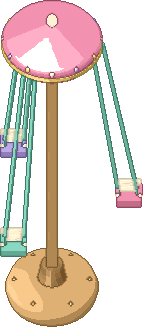
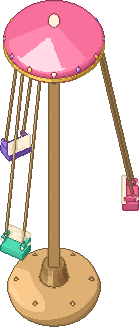
空中ブランコの吊りひもを細くして遊具の彩度を上げる

diff --git a/tools/art/handoff3d/rides.py b/tools/art/handoff3d/rides.py
@@ -8,7 +8,9 @@
 両端を止め、内側の座面は底から少し上に取りつける。
 中央に青い釉薬の水盤を固定し、底から0.07上に水面を張る。
 空中ブランコ（2×2）：高さ4.16の柱を半径0.72の基礎に固定。
-半径0.72の回転頭に3組の吊り材をつなぎ、高さ1.57の座板を吊るす。
+回転頭と座席の手すりを2本ずつの丸いひもでつなぐ。座席は外向き。
+上の留め具と下の留め具の間隔はどちらも0.31。張ったひもは直線、
+ちぎれたひもだけは先で曲がる。座板の基準の高さは1.57。
 観覧車（3×2）：左右に開く支柱を基礎から車軸（高さ2.94）へ
 つなぐ。半径1.55の二重の輪を8本のスポークで車軸に固定。
 4個のゴンドラを輪の横軸に吊り、座面を横軸の0.49下に置く。
@@ -18,19 +20,19 @@ from math import cos, sin, sqrt, tau
 
 from common import WOOD
 
-PINK = (243, 146, 176)
+PINK = (247, 112, 155)
 CREAM = (255, 241, 211)
-MINT = (143, 208, 186)
-RIDE_MINT = (137, 216, 192)
+MINT = (79, 219, 180)
 GOLD = (222, 176, 116)
 TRIM = (168, 118, 111)
-BLUE = (166, 222, 237)
-LILAC = (189, 169, 231)
-PEACH = (253, 177, 125)
-SUN = (252, 219, 126)
+BLUE = (139, 209, 239)
+LILAC = (168, 129, 237)
+PEACH = (255, 155, 92)
+SUN = (255, 205, 92)
 SILVER = (189, 205, 216)
 BRASS = (184, 136, 83)
 LEATHER = (159, 102, 95)
+ROPE = (195, 161, 113)
 SEATS = {"merry": 3, "cup": 2, "skyswing": 3, "wheel": 4}
 SPEED = {"merry": 1, "cup": 1.3, "skyswing": 1, "wheel": .35}
 
@@ -58,7 +60,7 @@ def carousel(m, phase, broken, seats):
         b = (panel + 1) * tau / 12
         x, y, z = polar(1.31, a, 2.14 + .10 * cos(a) * broken)
         u, v, w = polar(1.31, b, 2.14 + .10 * cos(b) * broken)
-        color = (PINK, CREAM, PEACH, CREAM, RIDE_MINT, CREAM)[panel % 6]
+        color = (PINK, CREAM, PEACH, CREAM, MINT, CREAM)[panel % 6]
         m.part(color, surface="cloth")
         m.sc.tri((roof_x, 0, 2.65), (x, y, z), (u, v, w), m.color(color))
         m.sc.quad((x, y, z), (u, v, w), (u, v, w-.10),
@@ -67,11 +69,11 @@ def carousel(m, phase, broken, seats):
         m.rod((roof_x, 0, 2.65), (x, y, z+.015), .014, CREAM)
         if not broken:
             cx, cy = (x+u)/2, (y+v)/2
-            m.part((RIDE_MINT, SUN, LILAC)[panel % 3], surface="cloth")
+            m.part((MINT, SUN, LILAC)[panel % 3], surface="cloth")
             m.sc.tri((x*.34+cx*.66, y*.34+cy*.66, z-.10),
                      (u*.34+cx*.66, v*.34+cy*.66, w-.10),
                      (cx, cy, (z+w)/2-.235),
-                     m.color((RIDE_MINT, SUN, LILAC)[panel % 3]))
+                     m.color((MINT, SUN, LILAC)[panel % 3]))
     m.ball((roof_x, 0, 2.69), .09, SUN, surface="polished")
     for index in range(3):
         angle = phase + index * tau / 3
@@ -84,7 +86,7 @@ def carousel(m, phase, broken, seats):
         if broken and index == 1:
             m.rod((x, y, .31), horse(.16, -.33), .029, TRIM)
             continue
-        trim = (PINK, RIDE_MINT, LILAC)[index]
+        trim = (PINK, MINT, LILAC)[index]
         m.rod((x, y, .27), (x, y, 2.15), .024, GOLD, surface="polished")
         m.rod(horse(-.17, 0), horse(.15, 0), .115, CREAM)
         m.rod(horse(.12, .02), horse(.18, .25), .065, CREAM)
@@ -104,7 +106,7 @@ def carousel(m, phase, broken, seats):
 
 def cups(m, phase, broken, seats):
     m.lathe([(0, 0), (1.32, 0), (1.38, .11), (1.38, .23),
-             (1.30, .30), (0, .30)], RIDE_MINT)
+             (1.30, .30), (0, .30)], MINT)
     m.lathe([(0,.30),(.11,.30),(.105,.49),(.169,.54),(.244,.64),
              (.253,.68),(.253,.703),(.213,.703),(.184,.602),
              (0,.601)], BLUE, surface="enamel")
@@ -136,7 +138,7 @@ def cups(m, phase, broken, seats):
             a = angle+j*tau/8
             dx, dy, dz = polar(.379, a, z+.30)
             m.ball((x+dx,y+dy,dz), .035, SUN, surface="enamel")
-        m.box((x-.19, y-.10, z+.16), (x+.19, y+.05, z+.22), RIDE_MINT)
+        m.box((x-.19, y-.10, z+.16), (x+.19, y+.05, z+.22), MINT)
         m.rod((x,y,z+.15), (x,y,z+.31), .033, BRASS, surface="polished")
         wheel = [(x+.095*cos(i*tau/20), y+.095*sin(i*tau/20), z+.31)
                  for i in range(21)]
@@ -174,22 +176,41 @@ def swing(m, phase, broken, seats):
     for index in range(3):
         angle = phase + index * tau / 3
         x, y, z = polar(1.20 if not broken else .81, angle, 1.57)
-        hx, hy, hz = polar(.70, angle, 4.10)
+        hx, hy, hz = polar(.67, angle, 4.075)
+        yaw = angle-tau/4
+        c, s = cos(yaw), sin(yaw)
         if broken and index == 1:
-            m.rod((hx+top[0], hy, hz), (hx+.38, hy, 2.40), .020, RIDE_MINT)
+            start = (hx+top[0], hy, hz)
+            points = [
+                (start[0]+cos(angle)*(.11*t*t+.12*t**5),
+                 start[1]+sin(angle)*(.11*t*t+.12*t**5),
+                 start[2]-1.65*t)
+                for t in (0, .33, .65, .86, 1)
+            ]
+            m.tube(points, .013, ROPE, surface="cloth")
             continue
+
         for side in (-1, 1):
-            m.rod((hx+top[0]+side*.09, hy, hz),
-                  (x+side*.15, y, z+.03), .019, RIDE_MINT)
-        color = (PINK, RIDE_MINT, LILAC)[index]
+            attachment = side*.155
+            dx = attachment*c-.035*s
+            dy = attachment*s+.035*c
+            start = (hx+top[0]+dx, hy+dy, hz)
+            end = (x+dx, y+dy, z+.15)
+            m.tube([start, end], .013, ROPE, surface="cloth")
+            m.ball(start, .025, BRASS, surface="polished")
+            m.ball(end, .021, BRASS, surface="polished")
+
+        color = (PINK, MINT, LILAC)[index]
+        chair_start = m.sc.pid
         m.box((x-.19, y-.12, z-.05), (x+.19, y+.12, z+.04), color,
               surface="enamel")
         m.box((x-.19, y-.13, z+.04), (x+.19, y-.08, z+.21), CREAM,
               surface="cloth")
         for side in (-1, 1):
             sx = x+side*.175
-            m.rod((sx,y-.10,z+.13), (sx,y+.095,z+.13), .024, color)
-            m.ball((sx,y+.09,z+.12), .026, CREAM)
+            m.rod((sx, y-.10, z+.13), (sx, y+.095, z+.13), .024, color)
+            m.ball((sx, y+.09, z+.12), .026, CREAM)
+        m.yaw(chair_start, (x, y), yaw)
         seats.append((x, y, z+.04))
 
 
@@ -203,7 +224,7 @@ def wheel(m, phase, broken, seats):
     m.box((-.35,.62,.074),(.35,.72,.119), WOOD)
     for side in (-1, 1):
         for y in (-.58, .51):
-            m.rod((side*1.06, y, .12), (hub[0], y, hub[2]), .089, RIDE_MINT,
+            m.rod((side*1.06, y, .12), (hub[0], y, hub[2]), .089, MINT,
                   surface="polished")
             x = side*1.06
             m.box((x-.15,y-.10,.144), (x+.15,y+.10,.21), BRASS)
@@ -232,7 +253,7 @@ def wheel(m, phase, broken, seats):
     if not broken:
         for i in range(24):
             x, y, z = rim(phase+i*tau/24, -.019, 1.574)
-            m.ball((x,y,z), .042, (SUN, CREAM, RIDE_MINT, LILAC)[i % 4],
+            m.ball((x,y,z), .042, (SUN, CREAM, MINT, LILAC)[i % 4],
                    surface="enamel")
     for index in range(4):
         if broken and index == 2:
@@ -241,7 +262,7 @@ def wheel(m, phase, broken, seats):
         x, y, z = rim(a, -.01)
         m.rod((x, -.35, z), (x, .11, z), .038, TRIM)
         m.rod((x, .11, z), (x, .11, z-.17), .033, GOLD)
-        color = (RIDE_MINT, PINK, LILAC, PEACH)[index]
+        color = (MINT, PINK, LILAC, PEACH)[index]
         m.box((x-.25, -.07, z-.55), (x+.25, .26, z-.43), color)
         m.box((x-.25, -.07, z-.24), (x+.25, .26, z-.17), CREAM)
         for dx in (-.25, .19):

diff --git a/tools/art/handoff3d/render.py b/tools/art/handoff3d/render.py
@@ -147,6 +147,17 @@ class Model:
         for i in range(1, 4):
             self.sc.tri(rings[-1][0], rings[-1][i], rings[-1][i+1], color)
 
+    def yaw(self, first_pid, pivot, angle):
+        """指定の部品を座面の中心で水平に回す。"""
+        x, y = pivot
+        c, s = cos(angle), sin(angle)
+        for a, b, d, _, pid in self.sc.t:
+            if pid > first_pid:
+                for v in (a, b, d):
+                    dx, dy = v[0]-x, v[1]-y
+                    v[0] = x+dx*c-dy*s
+                    v[1] = y+dx*s+dy*c
+
     def tilt(self, first_pid, pivot, angle):
         x, _, z = pivot
         for a, b, c, _, pid in self.sc.t:

diff --git a/handoff/from-gpt.md b/handoff/from-gpt.md
@@ -6,6 +6,8 @@
 
 ### H-1 遊園地の遊具
 
+- 遊具のピンク、すみれ色、青緑、黄、だいだいを鮮やかにした。空中ブランコは黄みのある細い丸ひも2本を座席の留め具につないだ。回転に合わせて座席が外を向く。座席がついたひもは張り、切れたひもは先が曲がる。
+
 - 回転木馬の屋根に3色の布と小旗、馬に色違いの鞍とたてがみを付けた。カップはピンクとすみれ色の釉薬、空中ブランコは色違いの座席、観覧車は4色のゴンドラと輪の小さな飾り灯にした。
 - コーヒーカップの中央に水盤を付けた。水底が透け、小波の角度から空の光と中央の金の飾りの反射を求めて写した。壊れた水盤は水が抜けている。
 - 観覧車は前後の窓をガラスにした。張り出した窓の面ごとに透け方と光沢が変わり、壊れた絵では前の窓が一つ外れている。輪・金具には金属の光沢、カップの釉薬には陶器の光沢をつけた。
@@ -22,7 +24,7 @@
 | 観覧車 | `(99,-186)`, `(0,-91)`, `(-99,-186)`, `(0,-280)` |
 
 - 全16コマの座席の位置、絵の左上と大きさは [sprites.json](files/H-1/sprites.json)。`rideAng` に `phase_factor` をかけた角度を1周16等分してコマを選び、同じコマの `seats[コマ][座席番号]` を `windRidePose` に使う。前後の描画順は、実際にせいれいを乗せるときに確認する。
-- 8まいの見本を `chipcheck.py` で確認。30〜90色、半透明0。64色以内の絵ではにた色0組。輪郭が2ドット以上の所は6〜445、孤立ドットは118〜441。色数、輪郭、細い線の点に目安を超える所がある。
+- 8まいの見本を `chipcheck.py` で確認。35〜100色、半透明0。64色以内の絵ではにた色0組。輪郭が2ドット以上の所は4〜397、孤立ドットは152〜438。色数、輪郭、細い線の点に目安を超える所がある。
 - [仮の絵との比較](files/H-1/cmp_x4.png) ・ [遊具の設計図](../tools/art/handoff3d/rides.py)
 
 ゲームのマップでの確認とチップへの登録は、絵の確認のあと。
